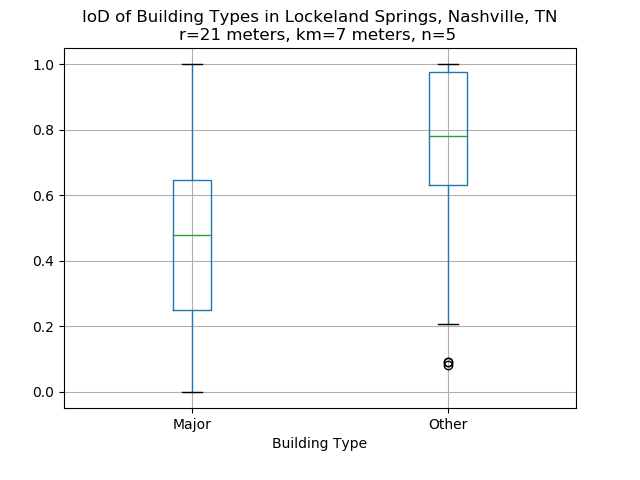
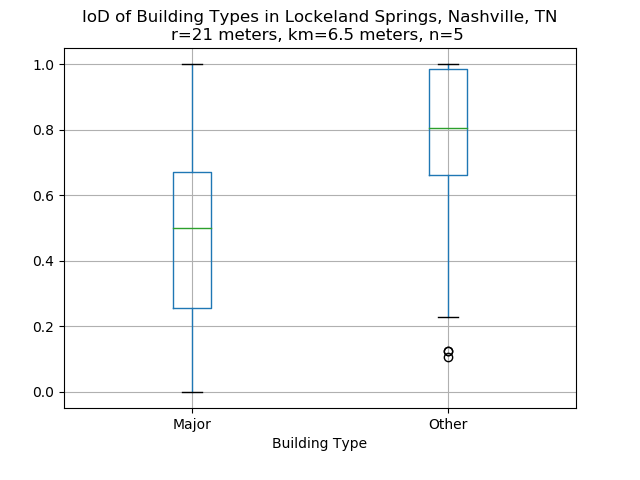
no message

diff --git a/building_reading.py b/building_reading.py
@@ -18,7 +18,7 @@ from pattern_generation import *
 
 #base_file = r"F:\entropy_veg\building_footprints\tn_footprint\koordinates_data\footprints_sylvan_hillswest_lockeland"
 base_file = r"F:\entropy_veg\building_footprints\tn_footprint\koordinates_data\footprints_lockeland"
-sensitivity = True
+sensitivity = False
 thresh = 0.7
 
 
@@ -36,7 +36,7 @@ filt = df
 
 
 pars = {'neighbor_search_dist': 21,
-               'ka': 7,
+               'ka': 6.5,
                'coop': 5,
                'punishment': 1,
                'punish_out_of_hull': False,
@@ -92,7 +92,6 @@ if sensitivity:
         other_mean = filt[~maj].iod.mean()
 
         #thresh = np.average([is_major_mean, other_mean], 0, [1, 3])
-        thresh = 0.7
         classified_as_aux = filt.iod >= thresh
 
         kappa = metrics.cohen_kappa_score(classified_as_aux, ~maj)
@@ -134,10 +133,15 @@ else:
     is_major_mean = filt[maj].iod.mean()
     other_mean = filt[~maj].iod.mean()
 
-    thresh = np.average([is_major_mean, other_mean], 0, [1, 3])
-    classified_as_aux = filt.iod > thresh
+    #thresh = np.average([is_major_mean, other_mean], 0, [1, 3])
+    classified_as_aux = [i > thresh if not np.isnan(i) else np.nan for i in filt.iod]
 
-    kappa = metrics.cohen_kappa_score(classified_as_aux, ~maj)
+    aux_dict = {'classed_aux': classified_as_aux,
+                'is_aux': ~maj}
+    aux_df = pd.DataFrame(aux_dict)
+    aux_df = aux_df.dropna()
+    aux_df['classed_aux'] = pd.Series(aux_df['classed_aux'], dtype=bool)
+    kappa = metrics.cohen_kappa_score(aux_df['classed_aux'], aux_df['is_aux'])
 
     print(f'KAPPA: {round(kappa,2)}')
 
@@ -159,18 +163,25 @@ else:
     cbar = fig.colorbar(sm, ax=ax, fraction=0.02, use_gridspec=True)
     cbar.ax.set_title('IoD')
 
-    assessment = [actual-classified for actual, classified in zip(~maj*2, classified_as_aux*1)]
+    assessment = [actual-classified for actual, classified in zip(aux_df['is_aux']*2, aux_df['classed_aux']*1)]
     assessment_map = {1:'TP',
                       -1:'FP',
                       2:'FN',
                       0:'TN'}
     assessment = [assessment_map[assess] for assess in assessment]
-    assessment_cols_map = {'TP':'firebrick',
-                           'TN': 'darkgreen',
-                           'FP': 'limegreen',
-                           'FN': 'orange'}
+    assessment_cols_map = {'TP': 'royalblue',
+                           'TN': 'paleturquoise',
+                           'FP': 'peachpuff',
+                           'FN': 'indianred'}
     col_vec = [assessment_cols_map[assess] for assess in assessment]
-    im0 = ax[0].scatter(pts[:, 0], pts[:, 1], c=col_vec, edgecolors='black')
+
+    pts_dict = {'x': pts[:, 0],
+                'y': pts[:, 1],
+                'scores': scores}
+    pts_df = pd.DataFrame(pts_dict)
+    pts_df = pts_df.dropna()
+
+    im0 = ax[0].scatter(pts_df.x, pts_df.y, c=col_vec, edgecolors='black')
 
     line1 = Line2D(range(1), range(1), color="white", marker='o', markerfacecolor=assessment_cols_map['TP'], markeredgecolor='black')
     line2 = Line2D(range(1), range(1), color="white", marker='o', markerfacecolor=assessment_cols_map['TN'], markeredgecolor='black')
